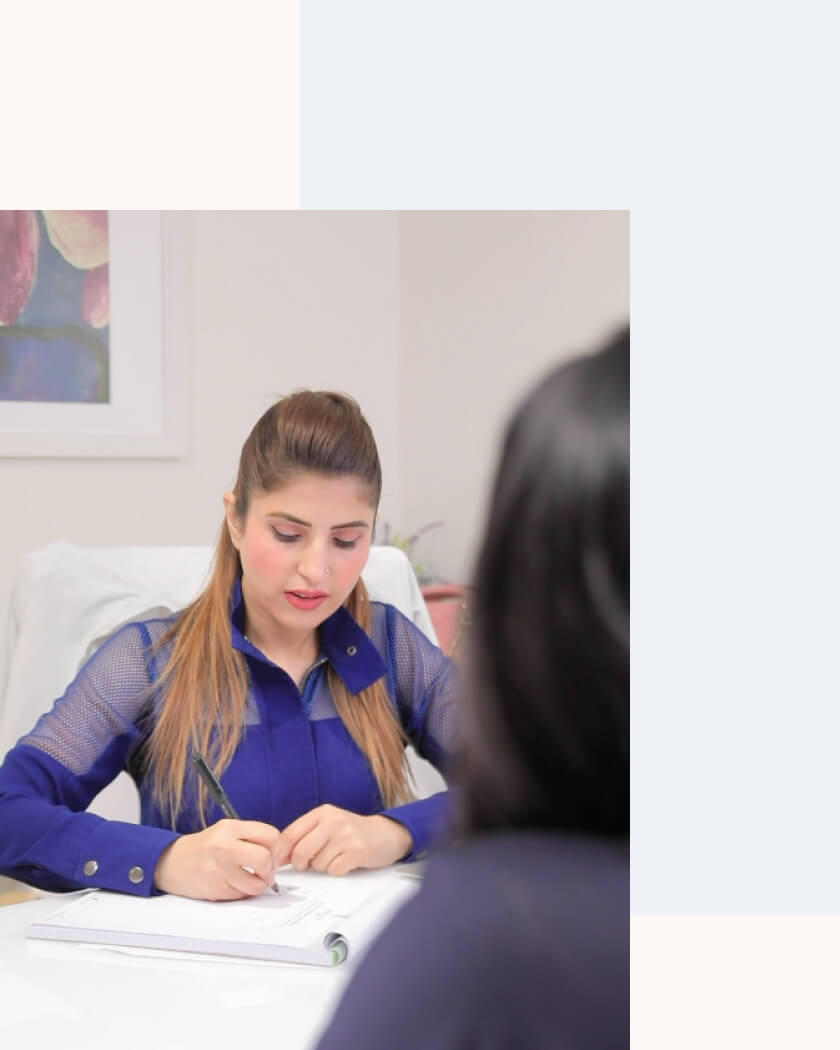
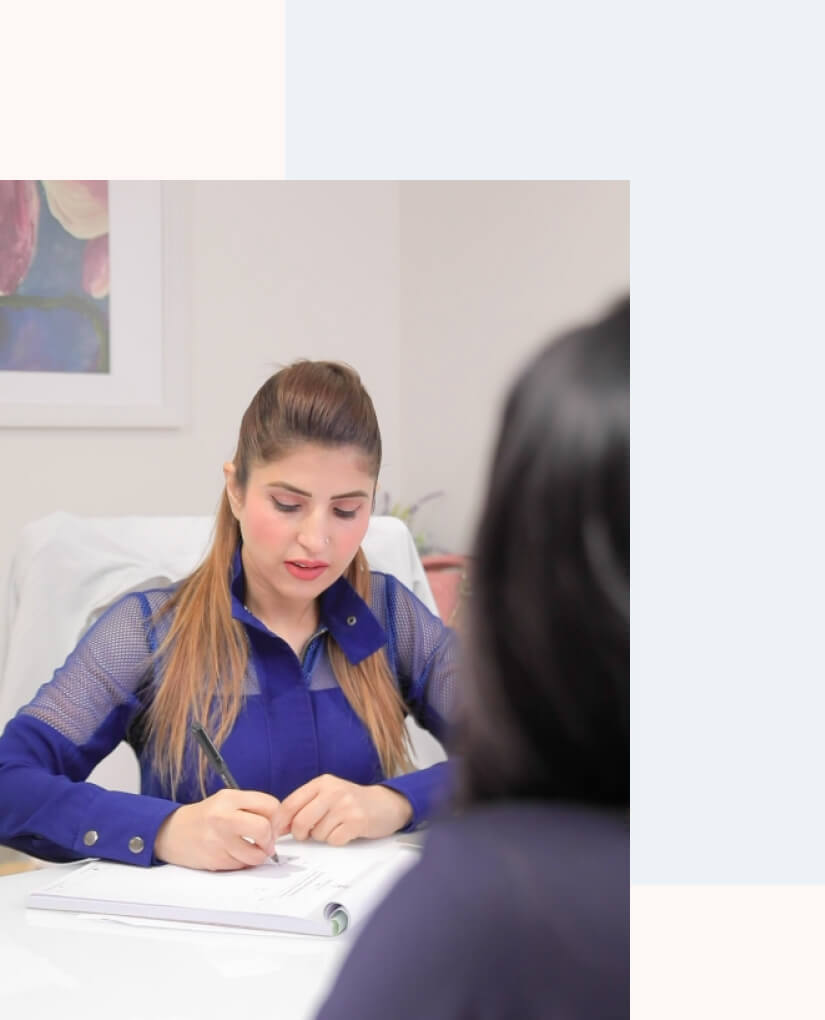
added blog page

Changed region(s): [[0.0, 0.152, 0.7879, 1.0], [0.303, 0.8814, 0.4545, 1.0], [0.6061, 0.699, 0.6364, 0.7294]]

diff --git a/blog.html b/blog.html
@@ -1,0 +1,127 @@
+<!DOCTYPE html>
+<html lang="en">
+  <head>
+    <meta charset="utf-8">
+    <meta content="width=device-width, initial-scale=1.0" name="viewport">
+    <title>Dr. Ruby Tandon</title>
+    <meta name="description" content="">
+    <meta name="keywords" content="">
+    <meta name="robots" content="index, follow">
+    <link rel="canonical" href="">
+    <!-- Fonts -->
+    <link rel="preconnect" href="https://fonts.googleapis.com">
+    <link rel="preconnect" href="https://fonts.gstatic.com" crossorigin>
+    <link href="https://fonts.googleapis.com/css2?family=Italianno&family=Mulish:wght@400;500;600&family=Quattrocento&display=swap" rel="stylesheet">
+    <!-- Main -->
+    <link href="css/core.css" rel="stylesheet">
+    <link href="css/style.css" rel="stylesheet">
+    <link href="css/responsive.css" rel="stylesheet">
+  </head>
+  <body>
+    <header class="header d-flex align-items-center">
+      <div class="container">
+        <div class="d-flex justify-content-between align-items-center">
+          <a href="./" class="header__logo d-block">
+            <img src="img/Dr-Ruby-Tandon-logo.svg" alt="Dr. Ruby Tandon" />
+          </a>
+          <nav class="navbar">
+            <div class="mobile__header container d-flex justify-content-between align-items-center d-lg-none">
+              <a href="./" class="logo--mobile">
+                <img src="img/Dr-Ruby-Tandon-logo.svg" alt="Dr. Ruby Tandon" />
+              </a>
+              <div class="toggle__menu menu_close">
+                <svg width="34" viewBox="0 0 344 134" fill="none" xmlns="http://www.w3.org/2000/svg"><path d="M12 122H332" stroke="#DB7A69" stroke-width="24" stroke-linecap="round" stroke-linejoin="round"/><path d="M12 12H332" stroke="#DB7A69" stroke-width="24" stroke-linecap="round" stroke-linejoin="round"/></svg>                
+              </div>                
+            </div>
+            <div class="navbar__inner">
+              <ul class="nav__list">
+                <li class="d-lg-none">
+                  <a href="./about" class="menu__link">ABOUT</a>
+                </li>
+                <li class="d-lg-inline-block">
+                  <a href="./skin" class="menu__link">SKIN</a>
+                </li>
+                <li class="d-lg-inline-block">
+                  <a href="./hair" class="menu__link">HAIR</a>
+                </li>
+                <li class="d-lg-inline-block">
+                  <a href="./weight" class="menu__link">WEIGHT</a>
+                </li>
+                <li class="d-lg-inline-block">
+                  <a href="./thread-lift" class="menu__link">THREAD LIFT</a>
+                </li>
+                <li class="d-lg-inline-block">
+                  <a href="./reviv" class="menu__link">REVIV</a>
+                </li>
+                <li class="d-lg-none">
+                  <a href="./faqs" class="menu__link">FAQs</a>
+                </li>
+                <li class="d-lg-inline-block">
+                  <a href="./contact" class="menu__link contact--link btn__link">CONTACT US<span></span></a>
+                </li>
+              </ul>
+              <div class="mobile__footer mt-40 border-top d-lg-none">
+                <div class="contact__box mb-40">
+                  <span class="text--small text--plight mb-16 d-block">We're always here</span>
+                  <a href="" class="contact_box__links text--dark mb-10">mumbai@revivme.com</a>
+                  <a href="" class="contact_box__links text--dark">+91 70217 87000</a>
+                </div>
+                <div class="social__icons d-grid">
+                  <a href="https://www.instagram.com/drrubytandon/" target="_blank" class="social__icon d-flex justify-content-center align-items-center">
+                    <svg width="18" height="18" viewBox="0 0 24 24" fill="none" xmlns="http://www.w3.org/2000/svg"><path d="M18.0627 5.68766C17.8154 5.68766 17.5738 5.76097 17.3682 5.89833C17.1626 6.03568 17.0024 6.2309 16.9078 6.45931C16.8132 6.68772 16.7885 6.93905 16.8367 7.18153C16.8849 7.424 17.004 7.64673 17.1788 7.82155C17.3536 7.99636 17.5763 8.11541 17.8188 8.16364C18.0613 8.21188 18.3126 8.18712 18.541 8.09251C18.7694 7.9979 18.9646 7.83769 19.102 7.63213C19.2394 7.42656 19.3127 7.18489 19.3127 6.93766C19.3127 6.60614 19.181 6.2882 18.9465 6.05378C18.7121 5.81936 18.3942 5.68766 18.0627 5.68766V5.68766ZM22.8543 8.2085C22.8341 7.34422 22.6722 6.48912 22.3752 5.67725C22.1103 4.98259 21.6981 4.35358 21.1668 3.8335C20.651 3.29956 20.0205 2.88993 19.3231 2.63558C18.5133 2.3295 17.6573 2.16392 16.7918 2.146C15.6877 2.0835 15.3335 2.0835 12.5002 2.0835C9.66683 2.0835 9.31266 2.0835 8.2085 2.146C7.34303 2.16392 6.48698 2.3295 5.67725 2.63558C4.98108 2.89251 4.35114 3.30179 3.8335 3.8335C3.29956 4.34931 2.88993 4.97979 2.63558 5.67725C2.3295 6.48698 2.16392 7.34303 2.146 8.2085C2.0835 9.31266 2.0835 9.66683 2.0835 12.5002C2.0835 15.3335 2.0835 15.6877 2.146 16.7918C2.16392 17.6573 2.3295 18.5133 2.63558 19.3231C2.88993 20.0205 3.29956 20.651 3.8335 21.1668C4.35114 21.6985 4.98108 22.1078 5.67725 22.3647C6.48698 22.6708 7.34303 22.8364 8.2085 22.8543C9.31266 22.9168 9.66683 22.9168 12.5002 22.9168C15.3335 22.9168 15.6877 22.9168 16.7918 22.8543C17.6573 22.8364 18.5133 22.6708 19.3231 22.3647C20.0205 22.1104 20.651 21.7008 21.1668 21.1668C21.7004 20.6487 22.113 20.0191 22.3752 19.3231C22.6722 18.5112 22.8341 17.6561 22.8543 16.7918C22.8543 15.6877 22.9168 15.3335 22.9168 12.5002C22.9168 9.66683 22.9168 9.31266 22.8543 8.2085V8.2085ZM20.9793 16.6668C20.9717 17.3281 20.852 17.9832 20.6252 18.6043C20.4588 19.0577 20.1917 19.4673 19.8439 19.8022C19.506 20.1465 19.0973 20.4131 18.646 20.5835C18.0249 20.8103 17.3697 20.9301 16.7085 20.9377C15.6668 20.9897 15.2814 21.0002 12.5418 21.0002C9.80225 21.0002 9.41683 21.0002 8.37516 20.9377C7.68859 20.9505 7.00495 20.8448 6.35433 20.6252C5.92285 20.4461 5.53283 20.1802 5.2085 19.8439C4.86276 19.5093 4.59896 19.0993 4.43766 18.646C4.18335 18.0159 4.04229 17.3459 4.021 16.6668C4.021 15.6252 3.9585 15.2397 3.9585 12.5002C3.9585 9.76058 3.9585 9.37516 4.021 8.3335C4.02567 7.65751 4.14907 6.98761 4.38558 6.35433C4.56896 5.91465 4.85044 5.52272 5.2085 5.2085C5.52497 4.85034 5.91609 4.56589 6.35433 4.37516C6.98928 4.14604 7.65849 4.02629 8.3335 4.021C9.37516 4.021 9.76058 3.9585 12.5002 3.9585C15.2397 3.9585 15.6252 3.9585 16.6668 4.021C17.3281 4.02858 17.9832 4.14834 18.6043 4.37516C19.0777 4.55084 19.5026 4.83646 19.8439 5.2085C20.1853 5.52847 20.452 5.91968 20.6252 6.35433C20.8567 6.98864 20.9765 7.65827 20.9793 8.3335C21.0314 9.37516 21.0418 9.76058 21.0418 12.5002C21.0418 15.2397 21.0314 15.6252 20.9793 16.6668ZM12.5002 7.15641C11.4437 7.15847 10.4116 7.47363 9.53418 8.06206C8.65677 8.65049 7.97347 9.48578 7.57062 10.4624C7.16776 11.439 7.06342 12.5131 7.27078 13.549C7.47815 14.5849 7.98791 15.5361 8.73566 16.2824C9.48341 17.0287 10.4356 17.5366 11.4719 17.742C12.5082 17.9473 13.5821 17.8409 14.5579 17.4361C15.5338 17.0314 16.3677 16.3465 16.9545 15.4679C17.5412 14.5894 17.8543 13.5566 17.8543 12.5002C17.8557 11.7971 17.7181 11.1008 17.4494 10.4512C17.1807 9.80152 16.7862 9.21142 16.2886 8.7148C15.791 8.21818 15.2001 7.82483 14.55 7.55738C13.8998 7.28993 13.2032 7.15367 12.5002 7.15641V7.15641ZM12.5002 15.9689C11.8141 15.9689 11.1435 15.7655 10.573 15.3843C10.0026 15.0032 9.558 14.4614 9.29546 13.8276C9.03291 13.1938 8.96422 12.4963 9.09806 11.8234C9.23191 11.1506 9.56227 10.5325 10.0474 10.0474C10.5325 9.56227 11.1506 9.23191 11.8234 9.09806C12.4963 8.96422 13.1938 9.03291 13.8276 9.29546C14.4614 9.558 15.0032 10.0026 15.3843 10.573C15.7655 11.1435 15.9689 11.8141 15.9689 12.5002C15.9689 12.9557 15.8792 13.4067 15.7049 13.8276C15.5306 14.2484 15.275 14.6308 14.9529 14.9529C14.6308 15.275 14.2484 15.5306 13.8276 15.7049C13.4067 15.8792 12.9557 15.9689 12.5002 15.9689V15.9689Z" fill="#5E302C"/></svg>                  
+                  </a>   
+                  <a href="https://www.facebook.com/DrRubyTandon" target="_blank" class="social__icon d-flex justify-content-center align-items-center">
+                    <svg width="15" height="16" viewBox="0 0 18 19" fill="none" xmlns="http://www.w3.org/2000/svg"><g clip-path="url(#clip0_2257_2712)"><path d="M10.3941 18.5V10.29H13.1487L13.562 7.08941H10.3941V5.04632C10.3941 4.11998 10.6503 3.48869 11.9801 3.48869L13.6735 3.48799V0.625307C13.3807 0.587251 12.3754 0.5 11.2054 0.5C8.7623 0.5 7.08968 1.99127 7.08968 4.72934V7.08941H4.32666V10.29H7.08968V18.5H10.3941Z" fill="#5E302C"/></g><defs><clipPath id="clip0_2257_2712"><rect width="18" height="18" fill="white" transform="translate(0 0.5)"/></clipPath></defs></svg>                  
+                  </a>   
+                  <a href="https://www.linkedin.com/in/dr-ruby-tandon-a7ba0862/" target="_blank" class="social__icon d-flex justify-content-center align-items-center">
+                    <svg width="16" height="16" viewBox="0 0 20 20" fill="none" xmlns="http://www.w3.org/2000/svg"><path d="M5 3C5 4.1 4.3 5 3 5C1.8 5 1 4.1 1 3.1C1 2 1.8 1 3 1C4.2 1 5 1.9 5 3ZM1 19H5V6H1V19ZM14.6 6.2C12.5 6.2 11.3 7.4 10.8 8.2H10.7L10.5 6.5H6.9C6.9 7.6 7 8.9 7 10.4V19H11V11.9C11 11.5 11 11.2 11.1 10.9C11.4 10.2 11.9 9.3 13 9.3C14.4 9.3 15 10.5 15 12.1V19H19V11.6C19 7.9 17.1 6.2 14.6 6.2V6.2Z" fill="#5E302C"/></svg>                 
+                  </a> 
+                  <a href="https://api.whatsapp.com/send?phone=917021787000&text=Hi%20I'm%20interested%20in%20your%20services." target="_blank" class="social__icon d-flex justify-content-center align-items-center">
+                    <svg width="19" height="19" viewBox="0 0 18 18" fill="none" xmlns="http://www.w3.org/2000/svg"><path d="M12.45 10.5002C12.3 10.4252 11.325 9.97519 11.175 9.90019C11.025 9.82519 10.875 9.8252 10.725 9.9752C10.575 10.1252 10.275 10.5752 10.125 10.7252C10.05 10.8752 9.9 10.8752 9.75 10.8002C9.225 10.5752 8.7 10.2752 8.25 9.90019C7.875 9.52519 7.5 9.0752 7.2 8.6252C7.125 8.4752 7.2 8.3252 7.275 8.2502C7.35 8.1752 7.425 8.0252 7.575 7.9502C7.65 7.8752 7.725 7.72519 7.725 7.65019C7.8 7.57519 7.8 7.4252 7.725 7.3502C7.65 7.2752 7.275 6.3752 7.125 6.0002C7.05 5.4752 6.9 5.4752 6.75 5.4752C6.675 5.4752 6.525 5.4752 6.375 5.4752C6.225 5.4752 6 5.6252 5.925 5.7002C5.475 6.1502 5.25 6.6752 5.25 7.2752C5.325 7.9502 5.55 8.6252 6 9.2252C6.825 10.4252 7.875 11.4002 9.15 12.0002C9.525 12.1502 9.825 12.3002 10.2 12.3752C10.575 12.5252 10.95 12.5252 11.4 12.4502C11.925 12.3752 12.375 12.0002 12.675 11.5502C12.825 11.2502 12.825 10.9502 12.75 10.6502C12.75 10.6502 12.6 10.5752 12.45 10.5002ZM14.325 3.6752C11.4 0.750195 6.675 0.750195 3.75 3.6752C1.35 6.0752 0.9 9.75019 2.55 12.6752L1.5 16.5002L5.475 15.4502C6.6 16.0502 7.8 16.3502 9 16.3502C13.125 16.3502 16.425 13.0502 16.425 8.92519C16.5 6.97519 15.675 5.1002 14.325 3.6752ZM12.3 14.1752C11.325 14.7752 10.2 15.1502 9 15.1502C7.875 15.1502 6.825 14.8502 5.85 14.3252L5.625 14.1752L3.3 14.7752L3.9 12.5252L3.75 12.3002C1.95 9.30019 2.85 5.5502 5.775 3.6752C8.7 1.8002 12.45 2.7752 14.25 5.6252C16.05 8.5502 15.225 12.3752 12.3 14.1752Z" fill="#5E302C"/></svg>
+                  </a>                      
+                </div>
+              </div>
+            </div>
+          </nav>
+          <div class="nav__right d-flex justify-content-end align-items-center d-lg-none">            
+            <div class="toggle__menu">
+              <svg width="34" viewBox="0 0 344 134" fill="none" xmlns="http://www.w3.org/2000/svg"><path d="M12 122H332" stroke="#DB7A69" stroke-width="24" stroke-linecap="round" stroke-linejoin="round"/><path d="M12 12H332" stroke="#DB7A69" stroke-width="24" stroke-linecap="round" stroke-linejoin="round"/></svg>                
+            </div>
+          </div>
+        </div>
+      </div>
+    </header>
+    <section class="section--padding mt-30">
+      <div class="container">
+        <div class="row align-items-center">
+          <div class="col-md-6 d-flex justify-content-center">
+            <div class="curve__img relative">
+              <div class="curve__el curve--right">
+                <div class="curve__svg">
+                  <svg xmlns="http://www.w3.org/2000/svg" style="isolation:isolate" viewBox="0 0 92 92" width="92pt" height="92pt"><defs><clipPath id="a"><path d="M0 0h92v92H0z"/></clipPath></defs><g clip-path="url(#a)"><mask id="b"><path d="M9.832 74.412C18.257 85.119 31.331 92 46 92c25.389 0 46-20.612 46-46S71.389-.002 46 0" fill="#fff"/></mask><path d="M9.832 74.412C18.257 85.119 31.331 92 46 92c25.389 0 46-20.612 46-46S71.389-.002 46 0" fill="none"/><path d="M9.832 74.412C18.257 85.119 31.331 92 46 92c25.389 0 46-20.612 46-46S71.389-.002 46 0" fill="none" mask="url(#b)" vector-effect="non-scaling-stroke" stroke-width="2.6" stroke="#EB786F" stroke-linecap="square" stroke-miterlimit="3"/></g></svg>
+                </div>
+                <span class="text--salmon">Our Blog</span>
+              </div>
+              <img src="img/op-banners/blog-hero.jpg" alt="Dr. Ruby Tandon - Expert in the field of Laser Technology and Aesthetics" />
+            </div>
+          </div>
+          <div class="col-md-6 d-flex justify-content-center">
+            <div class="overview__content content__01 op__hero_content">
+              <h2 class="d-none d-lg-block title--one mb-24">Explore the inner world of beauty, health and wellness</h1>
+              <p>Because when you love your work as much as we do, there’s always more to say about it. From how we work to what it’s like to work with us and everything in between.</p>
+            </div>
+          </div>
+        </div>
+      </div>
+    </section>
+    <section class="section--padding">
+      <div class="hero__separator">
+
+      </div>
+    </section>
+    
+    <!-- JS -->
+    <script src="js/jquery.min.js"></script>
+    <script src="js/main.js"></script>
+  </body>
+</html>

diff --git a/index.html b/index.html
@@ -21,9 +21,9 @@
     <header class="header d-flex align-items-center">
       <div class="container">
         <div class="d-flex justify-content-between align-items-center">
-          <div class="header__logo d-block">
+          <a href="./" class="header__logo d-block">
             <img src="img/Dr-Ruby-Tandon-logo.svg" alt="Dr. Ruby Tandon" />
-          </div>
+          </a>
           <nav class="navbar">
             <div class="mobile__header container d-flex justify-content-between align-items-center d-lg-none">
               <a href="./" class="logo--mobile">
@@ -92,7 +92,7 @@
       </div>
     </header>
 
-    <section class="hero pt-header"></section>
+    <section class="hero mt-100"></section>
 
     <section class="section--lpadding">
       <div class="container">
@@ -115,11 +115,11 @@
             <div class="curve__img relative">
               <div class="curve__el curve--left">
                 <div class="curve__svg">
-                  <svg xmlns="http://www.w3.org/2000/svg" xmlns:xlink="http://www.w3.org/1999/xlink" style="isolation:isolate" viewBox="0 0 92 92" width="92px"><defs><clipPath id="_clipPath_GLHhf6CQAOXiI5Q2N2gHHo68Ef4MTjaq"><rect width="92" height="92"/></clipPath></defs><g clip-path="url(#_clipPath_GLHhf6CQAOXiI5Q2N2gHHo68Ef4MTjaq)"><mask id="_mask_8zpyJC323PQTiBBPdBL7X63RceSSrBrQ"><path d=" M 82.168 74.412 C 73.743 85.119 60.669 92 46 92 C 20.611 92 0 71.388 0 46 C 0 20.612 20.611 -0.002 46 0" fill="white" stroke="none"/></mask><path d=" M 82.168 74.412 C 73.743 85.119 60.669 92 46 92 C 20.611 92 0 71.388 0 46 C 0 20.612 20.611 -0.002 46 0" fill="none"/><path d=" M 82.168 74.412 C 73.743 85.119 60.669 92 46 92 C 20.611 92 0 71.388 0 46 C 0 20.612 20.611 -0.002 46 0" fill="none" mask="url(#_mask_8zpyJC323PQTiBBPdBL7X63RceSSrBrQ)" vector-effect="non-scaling-stroke" stroke-width="2.6" stroke="rgb(235,120,111)" stroke-linejoin="miter" stroke-linecap="square" stroke-miterlimit="3"/></g></svg>
+                  <svg xmlns="http://www.w3.org/2000/svg" style="isolation:isolate" viewBox="0 0 92 92" width="92pt" height="92pt"><defs><clipPath id="a"><path d="M0 0h92v92H0z"/></clipPath></defs><g clip-path="url(#a)"><mask id="b"><path d="M82.168 74.412C73.743 85.119 60.669 92 46 92 20.611 92 0 71.388 0 46S20.611-.002 46 0" fill="#fff"/></mask><path d="M82.168 74.412C73.743 85.119 60.669 92 46 92 20.611 92 0 71.388 0 46S20.611-.002 46 0" fill="none"/><path d="M82.168 74.412C73.743 85.119 60.669 92 46 92 20.611 92 0 71.388 0 46S20.611-.002 46 0" fill="none" mask="url(#b)" vector-effect="non-scaling-stroke" stroke-width="2.6" stroke="#EB786F" stroke-linecap="square" stroke-miterlimit="3"/></g></svg>
                 </div>
                 <span class="text--salmon">Specialist</span>
               </div>
-              <img src="img/Dr-Ruby-Tandon-overview.jpg" width="560px" alt="Dr. Ruby Tandon - Aesthetic Dermatologist, Health and Wellness Expert" />
+              <img src="img/Dr-Ruby-Tandon-overview.jpg" width="550px" alt="Dr. Ruby Tandon - Aesthetic Dermatologist, Health and Wellness Expert" />
             </div>
           </div>
         </div>
@@ -137,13 +137,13 @@
         <div class="row">
           <div class="col-6 col-lg-4 d-flex justify-content-center text-center">
             <div class="service__block">
-              <img src="img/skin-care.jpg" alt="Skin Care" />
+              <img src="img/skin.jpg" alt="Skin" />
               <a href="./skin" class="title--caps service--title text--dark font--600">SKIN</a>
             </div>
           </div>
           <div class="col-6 col-lg-4 d-flex justify-content-center text-center">
             <div class="service__block">
-              <img src="img/hair-care.jpg" alt="Hair Care" />
+              <img src="img/hair.jpg" alt="Hair" />
               <a href="./hair" class="title--caps service--title text--dark font--600">HAIR</a>
             </div>
           </div>
@@ -192,11 +192,11 @@
             <div class="curve__img relative">
               <div class="curve__el curve--right">
                 <div class="curve__svg">
-                  <svg xmlns="http://www.w3.org/2000/svg" xmlns:xlink="http://www.w3.org/1999/xlink" style="isolation:isolate" viewBox="0 0 92 92" width="92px"><defs><clipPath id="_clipPath_NCniPmzwW9fWh1NuUp7V01PFerKuOM5z"><rect width="92" height="92"/></clipPath></defs><g clip-path="url(#_clipPath_NCniPmzwW9fWh1NuUp7V01PFerKuOM5z)"><mask id="_mask_vWZwvCMuVs71xSXpMUQRdty7Wy60HvHy"><path d=" M 9.832 74.412 C 18.257 85.119 31.331 92 46 92 C 71.389 92 92 71.388 92 46 C 92 20.612 71.389 -0.002 46 0" fill="white" stroke="none"/></mask><path d=" M 9.832 74.412 C 18.257 85.119 31.331 92 46 92 C 71.389 92 92 71.388 92 46 C 92 20.612 71.389 -0.002 46 0" fill="none"/><path d=" M 9.832 74.412 C 18.257 85.119 31.331 92 46 92 C 71.389 92 92 71.388 92 46 C 92 20.612 71.389 -0.002 46 0" fill="none" mask="url(#_mask_vWZwvCMuVs71xSXpMUQRdty7Wy60HvHy)" vector-effect="non-scaling-stroke" stroke-width="2.6" stroke="rgb(118,162,188)" stroke-linejoin="miter" stroke-linecap="square" stroke-miterlimit="3"/></g></svg>
+                  <svg xmlns="http://www.w3.org/2000/svg" style="isolation:isolate" viewBox="0 0 92 92" width="92pt" height="92pt"><defs><clipPath id="a"><path d="M0 0h92v92H0z"/></clipPath></defs><g clip-path="url(#a)"><mask id="b"><path d="M9.832 74.412C18.257 85.119 31.331 92 46 92c25.389 0 46-20.612 46-46S71.389-.002 46 0" fill="#fff"/></mask><path d="M9.832 74.412C18.257 85.119 31.331 92 46 92c25.389 0 46-20.612 46-46S71.389-.002 46 0" fill="none"/><path d="M9.832 74.412C18.257 85.119 31.331 92 46 92c25.389 0 46-20.612 46-46S71.389-.002 46 0" fill="none" mask="url(#b)" vector-effect="non-scaling-stroke" stroke-width="2.6" stroke="#76A2BC" stroke-linecap="square" stroke-miterlimit="3"/></g></svg>
                 </div>
                 <span class="text--blue">Commitment</span>
               </div>
-              <img src="img/Dr-Ruby-Tandon-commitment.jpg" width="560px" alt="Dr. Ruby Tandon - Expert in the field of Laser Technology and Aesthetics" />
+              <img src="img/Dr-Ruby-Tandon-commitment.jpg" width="550px" alt="Dr. Ruby Tandon - Expert in the field of Laser Technology and Aesthetics" />
             </div>
           </div>
           <div class="col-lg-6 d-flex justify-content-end">

diff --git a/css/core.css b/css/core.css
@@ -634,8 +634,16 @@ label {
   margin-bottom: 3.75rem;
 }
 
+.mt-30 {
+  margin-top: 1.875rem;
+}
+
 .mt-40 {
   margin-top: 2.5rem;
+}
+
+.mt-100 {
+  margin-top: 6.25rem;
 }
 
 .mx-auto {
@@ -645,6 +653,7 @@ label {
 .mr-8 {
   margin-right: 0.5rem;
 }
+
 
 .pb-0 {
   padding-bottom: 0 !important;

diff --git a/css/style.css b/css/style.css
@@ -66,10 +66,6 @@ body {
 /*--------------------------------------------------------------
 # Margins & Padding
 --------------------------------------------------------------*/
-.pt-header {
-  padding-top: 6.25rem;
-}
-
 .mb-ow {
   margin-bottom: 3.75rem;
 }

diff --git a/css/responsive.css b/css/responsive.css
@@ -481,6 +481,9 @@
   .footer__logo img {
     max-height: unset;
   }
+  .op__hero_content {
+    margin-bottom: 3.75rem;
+  }
 }
 
 @media only screen and (min-width: 1600px) {
